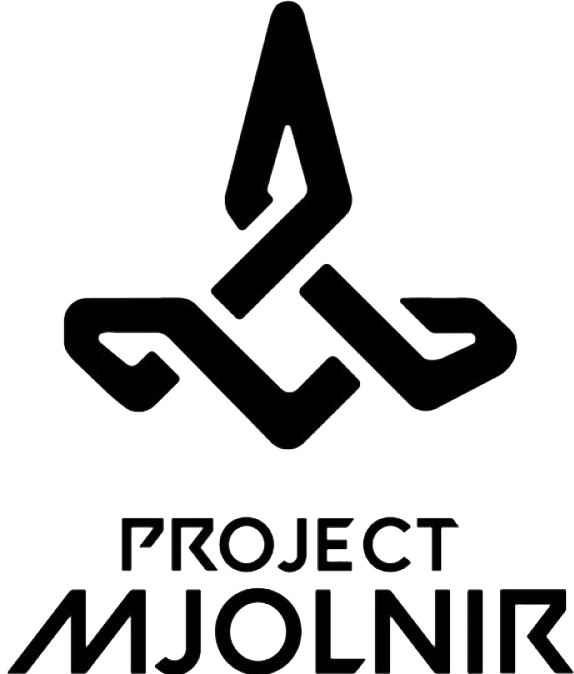
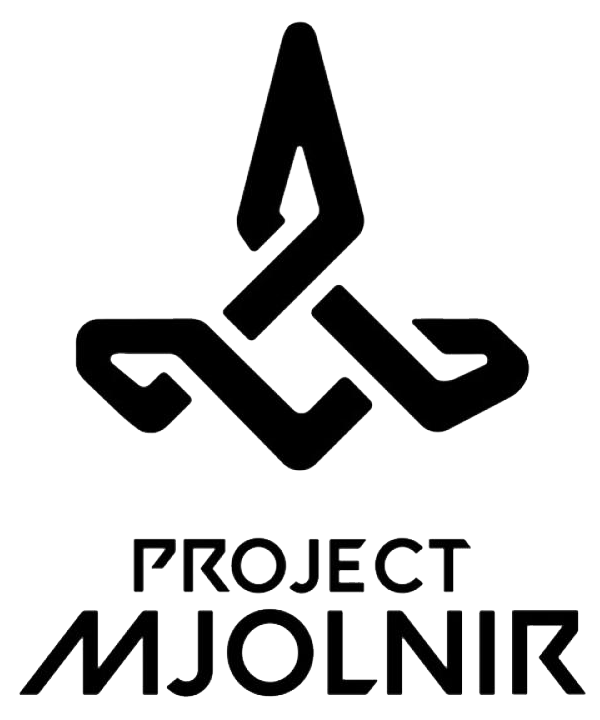
v0.3

diff --git a/style.css b/style.css
@@ -91,10 +91,10 @@ p {
 }
 
 .LOGO {
-  width: 65%;
+  width: 68%;
   position: relative;
-  padding-left: 18%;
-  padding-top: 5%;
+  padding-left: 15%;
+  padding-top: 0;
 }
 
 #sidebarButton {
@@ -119,8 +119,8 @@ p {
 }
 
 #sidebarButton:hover {
-  background-color: silver; /* Deep pink background color on hover */
-  transform: scale(1.05); /* Scale the button by 110% on hover */
+  background-color: silver; 
+  transform: scale(1.05); 
   box-shadow: 0 0 10px rgba(0, 0, 0, 0.1); /* Add a subtle box shadow on hover */
 }
 
